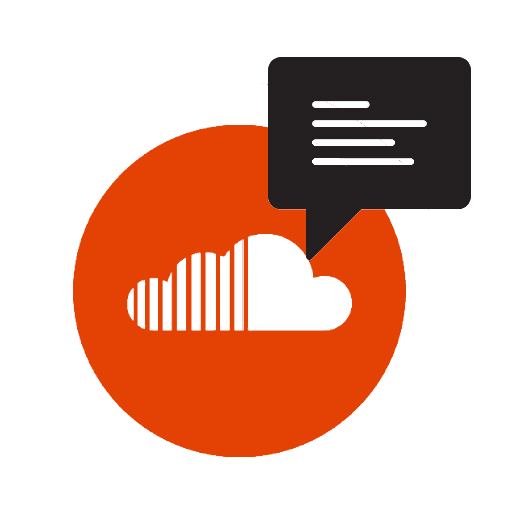
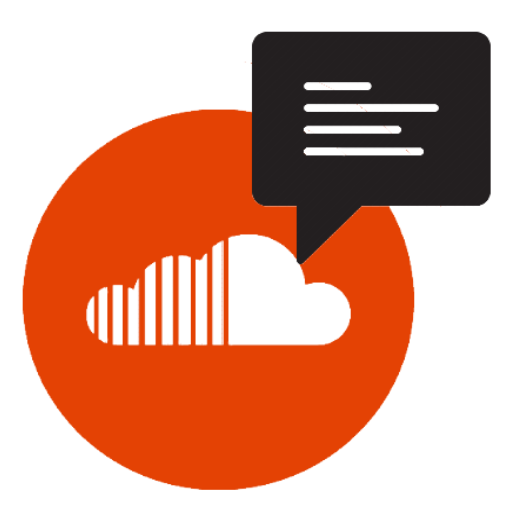
Style Changes for Popup
Changes to CSS, Icons and layout

Changed region(s): [[0.0312, 0.0625, 0.9688, 0.9688], [0.5938, 0.1562, 0.875, 0.3438]]

diff --git a/css/custom.css b/css/custom.css
@@ -5,18 +5,35 @@
  */
 
 body, section {			/* Change width and height to own preferences */
-	width: 500px;
+	width: 300px;
 	height: 400px;
 	overflow-x: hidden;
+	font-family:Arial, Helvetica, sans-serif;
 }
-#comments_input
-{
-	width:400px;
-	padding-top:5px;
+@font-face {
+	font-family:"glyphicons-halflings";
+	src: url("../fonts/glyphicons-halflings-regular.ttf") format("truetype");
 }
-#saved_doc_title
+#soundcloud_img{
+	background-image: url("../img/soundcloud-header.png");
+	width: 50px;
+	height: 50px;
+	float: left;
+}
+#header{
+	background-color: #333;
+	height: 50px;
+	color: rgb(204, 204, 204);
+}
+#header_text{
+	padding-left: 70px;
+	padding-top: 15px;
+	font-size: 19px;
+}
+#comments
 {
-	color:#4D05CA;
+	
+
 }
 
 /* Basic style tweaks */
@@ -26,4 +43,4 @@ section { padding: 5px;}
 /* Scroll Bar */
 ::-webkit-scrollbar { width: 6px; }
 ::-webkit-scrollbar-track { -webkit-box-shadow: inset 0 0 6px rgba(0,0,0,0.3); }
-::-webkit-scrollbar-thumb, ::-webkit-scrollbar-thumb:window-inactive  { background: red; }
+::-webkit-scrollbar-thumb, ::-webkit-scrollbar-thumb:window-inactive  { background: #F60; }

diff --git a/functions.js b/functions.js
@@ -29,13 +29,13 @@ chrome.tabs.executeScript(null, {code: "var url = document.URL;url;"},
 			SC.get("/tracks/"+track_id+"/comments"
 			  , function (comments, err) {
 			  var output = "";
-			  // Sort the array by time occuring on track
+			  // Sort the array by time occurring on track
 			  comments.sort(compare);
 			  for (var i = 0; i < comments.length; i++) {
-					output += "user: " + comments[i].user.username + "<br>";
-				output += "comment: " + comments[i].body + "   " +msToTime(comments[i].timestamp)  +" <hr> ";
+					output +="<b> " +msToTime(comments[i].timestamp)  + "</b><br>";
+					output +="<b>" +comments[i].user.username +"</b>: " + comments[i].body    +" <hr> ";
 			  }
-			  $("#url").html(output);
+			  $("#comments").html(output);
 			});
 		  });
 	  });
@@ -63,9 +63,7 @@ function msToTime(duration) {
 	
 	if(hours=="00")
 		return minutes + ":" + seconds;
-	else{
+	else
 		return hours + ":" + minutes + ":" + seconds;
-	}
-    
 }
 

diff --git a/popup.html b/popup.html
@@ -1,14 +1,25 @@
 <html>
   <head>
-    <!-- Load jQuery from Google's CDN -->
+    <!-- Load jQuery-->
     <script src="jquery-1.7.2.min.js"></script>
+	<!-- Load CSS -->
+	<link rel="stylesheet" type="text/css" href="css/custom.css">
     <!-- Load Soundcloud SDK -->
     <script src="sc_sdk.js"></script>
     <!-- Source our javascript file which uses Soundcloud API -->
     <script src="functions.js"></script>
   </head>
   <body>
-    <h1>Comments</h1>
-    <div id="url"></div>
+	<div id='container'>
+		<div id='header'>
+			<div id='soundcloud_img'>
+			
+			</div>
+			<div id='header_text'>  Time Sorted Comments </div>
+		</div>
+		<div id='comments'>
+		
+		</div>
+	</div>
   </body>
 </html>
